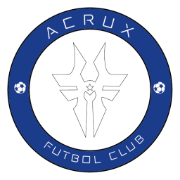
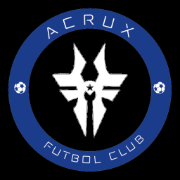
SEO: fundamentos de posicionamiento local
- title/description con keywords locales (escuela de fútbol Sibaté, Cundinamarca)
- favicon real del club (antes apuntaba al logo de Vite)
- Open Graph + Twitter cards + canonical + JSON-LD SportsClub
- robots.txt + sitemap.xml
- headers de caché para /foto y /carruseles en Vercel
- fotos optimizadas: 20MB -> 4.7MB (fotos PNG a JPG, resize 1400px, quality 82)
- un solo H1 (el logo del navbar pasa a <p>)
- countdown de partido vencido: la sección se oculta en vez de mostrar banner congelado
- eliminados 2 videos placeholder con ID de prueba

diff --git a/acrux-react/src/App.jsx b/acrux-react/src/App.jsx
@@ -98,7 +98,7 @@ const GALLERY = [
   { src: '/foto/img_10.jpg', alt: 'Celebración de gol', caption: 'Celebración', emoji: '🎉', category: 'sub15' },
   { src: '/foto/img_11.jpg', alt: 'Equipo completo', caption: 'Equipo Acrux', emoji: '🤝', category: 'all' },
   { src: '/foto/img_a02.jpg', alt: 'Trabajo con balón', caption: 'Trabajo con balón', emoji: '⚽', category: 'sub13' },
-  { src: '/foto/Rivaldo.png', alt: 'Gol en el último minuto', caption: 'Gol en el último minuto', emoji: '🔥', category: 'sub17' },
+  { src: '/foto/Rivaldo.jpg', alt: 'Gol en el último minuto', caption: 'Gol en el último minuto', emoji: '🔥', category: 'sub17' },
   { src: 'https://images.unsplash.com/photo-1518604666860-9ed391f76460?w=800', alt: 'Entrenamiento táctico', caption: 'Trabajo táctico', emoji: '🧠', category: 'sub15' },
   { src: 'https://images.unsplash.com/photo-1574629810360-7efbbe195018?w=800', alt: 'Resistencia física', caption: 'Resistencia', emoji: '🏃', category: 'sub13' },
 ];
@@ -140,7 +140,7 @@ Acrux FC -> Patriotas Boyacá`,
   date: '2026-07-10',
   badge: '⭐ NOTICIA',
   badgeColor: 'blue',
-  image: '/foto/Rivaldo.png',
+  image: '/foto/Rivaldo.jpg',
   gallery: [],
   href: '#',
 },
@@ -154,7 +154,7 @@ Nacido en Acandí, Chocó. Exdelantero profesional (Debut 2004 Cortuluá) y sele
   date: '2026-07-10',
   badge: '⭐ NOTICIA',
   badgeColor: 'blue',
-  image: '/foto/phil.png',
+  image: '/foto/phil.jpg',
   gallery: [],
   href: '#',
 },
@@ -163,8 +163,6 @@ Nacido en Acandí, Chocó. Exdelantero profesional (Debut 2004 Cortuluá) y sele
 const VIDEOS = [
   { id: 'v1', title: 'Mateo: "Acrux me cambió la vida"', player: 'Mateo R. · Sub-17', duration: '2:14', youtubeId: 'cceE67xo9mo', description: 'Mateo cuenta cómo llegó a Acrux hace un año y su progreso en el equipo.', emoji: '🎙' },
   { id: 'v2', title: 'Valentina: de 0 a seleccionada', player: 'Valentina P. · Sub-15', duration: '1:48', youtubeId: 'tFRaTMwEIbY', description: 'El camino de Valentina hasta la convocatoria a la selección Valle.', emoji: '⭐' },
-  { id: 'v3', title: 'Entrenador: "Nuestra metodología"', player: 'Prof. Carlos · DT Principal', duration: '3:22', youtubeId: 'dQw4w9WgXcQ', description: 'El profe Carlos explica cómo entrenamos y qué nos diferencia de otras academias.', emoji: '👨🏫' },
-  { id: 'v4', title: 'Mamá de Santiago: testimonio', player: 'Carolina H. · Mamá de jugador', duration: '1:35', youtubeId: 'dQw4w9WgXcQ', description: 'Carolina nos cuenta por qué eligió Acrux y qué vio en su hijo en estos meses.', emoji: '💬' },
 ];
 
 const PLAYERS = [
@@ -505,7 +503,7 @@ function Navbar({ spots }) {
               onError={(e) => { e.currentTarget.style.display = 'none'; }}
             />
             <div className="leading-tight">
-              <h1 className="font-black text-xl sm:text-2xl tracking-tight">AC<span className="text-[#4A8BFF]">RUX</span></h1>
+              <p className="font-black text-xl sm:text-2xl tracking-tight">AC<span className="text-[#4A8BFF]">RUX</span></p>
               <p className="text-[10px] text-white/50 tracking-[4px]">FÚTBOL · {CONFIG.brand.city.toUpperCase()}</p>
             </div>
           </a>
@@ -608,13 +606,9 @@ function NextMatchCountdown() {
   const isToday = !expired && totalSeconds < 3600 * 6; // menos de 6h
 
   if (expired) {
-    return (
-      <section className="py-6 px-4 sm:px-8 border-b border-white/5 bg-black/60" aria-label="Próximo partido">
-        <div className="max-w-5xl mx-auto text-center">
-          <p className="text-white/60 text-sm">🏟 El partido ya empezó o terminó. ¡Mirá los resultados en <a href="#news" className="text-[#4A8BFF] hover:underline">Noticias</a>!</p>
-        </div>
-      </section>
-    );
+    // Sin partido programado: la sección no se muestra (evita el banner
+    // "el partido terminó" congelado durante semanas hasta definir el próximo).
+    return null;
   }
 
   return (

diff --git a/acrux-react/index.html b/acrux-react/index.html
@@ -2,10 +2,46 @@
 <html lang="es">
   <head>
     <meta charset="UTF-8" />
-    <link rel="icon" type="image/svg+xml" href="/vite.svg" />
+    <link rel="icon" type="image/svg+xml" href="/favicon.svg" />
+    <link rel="apple-touch-icon" href="/foto/logo/logo_web_200px.png" />
     <meta name="viewport" content="width=device-width, initial-scale=1.0" />
-    <title>Acrux - Escuela de Fútbol Profesional</title>
-    <meta name="description" content="Acrux Fútbol Club - Formando campeones con valores y excelencia deportiva." />
+    <title>Escuela de Fútbol en Sibaté | Acrux FC — Convocatoria Pre-Juvenil y Juvenil</title>
+    <meta name="description" content="Acrux FC: escuela de fútbol en Sibaté, Cundinamarca. Formación con valores y método profesional en categorías pre-juvenil y juvenil. Convocatoria abierta: inscríbete a la prueba técnica." />
+    <meta name="keywords" content="escuela de fútbol Sibaté, academia de fútbol Cundinamarca, Acrux FC, convocatoria de fútbol juvenil, formación futbolística Colombia, pruebas de fútbol sub-17" />
+    <link rel="canonical" href="https://acruxfc.com/" />
+    <meta name="theme-color" content="#0B1B3A" />
+    <!-- Open Graph (cómo se ve el link al compartir en WhatsApp/redes) -->
+    <meta property="og:type" content="website" />
+    <meta property="og:site_name" content="Acrux FC" />
+    <meta property="og:locale" content="es_CO" />
+    <meta property="og:url" content="https://acruxfc.com/" />
+    <meta property="og:title" content="Escuela de Fútbol en Sibaté | Acrux FC" />
+    <meta property="og:description" content="Formación futbolística con valores y método profesional en Sibaté, Cundinamarca. Convocatoria abierta pre-juvenil y juvenil." />
+    <meta property="og:image" content="https://acruxfc.com/foto/logo/logo_web_200px.png" />
+    <!-- Twitter -->
+    <meta name="twitter:card" content="summary" />
+    <meta name="twitter:title" content="Escuela de Fútbol en Sibaté | Acrux FC" />
+    <meta name="twitter:description" content="Formación futbolística con valores en Sibaté, Cundinamarca. Convocatoria abierta." />
+    <meta name="twitter:image" content="https://acruxfc.com/foto/logo/logo_web_200px.png" />
+    <!-- Datos estructurados: club deportivo local -->
+    <script type="application/ld+json">
+    {
+      "@context": "https://schema.org",
+      "@type": "SportsClub",
+      "name": "Acrux Fútbol Club",
+      "alternateName": "Acrux FC",
+      "url": "https://acruxfc.com/",
+      "logo": "https://acruxfc.com/foto/logo/logo_web_200px.png",
+      "description": "Escuela de fútbol en Sibaté, Cundinamarca. Formación de jugadores en categorías pre-juvenil y juvenil con valores y método profesional.",
+      "sport": "Football",
+      "address": {
+        "@type": "PostalAddress",
+        "addressLocality": "Sibaté",
+        "addressRegion": "Cundinamarca",
+        "addressCountry": "CO"
+      }
+    }
+    </script>
   </head>
   <body>
     <div id="root"></div>
